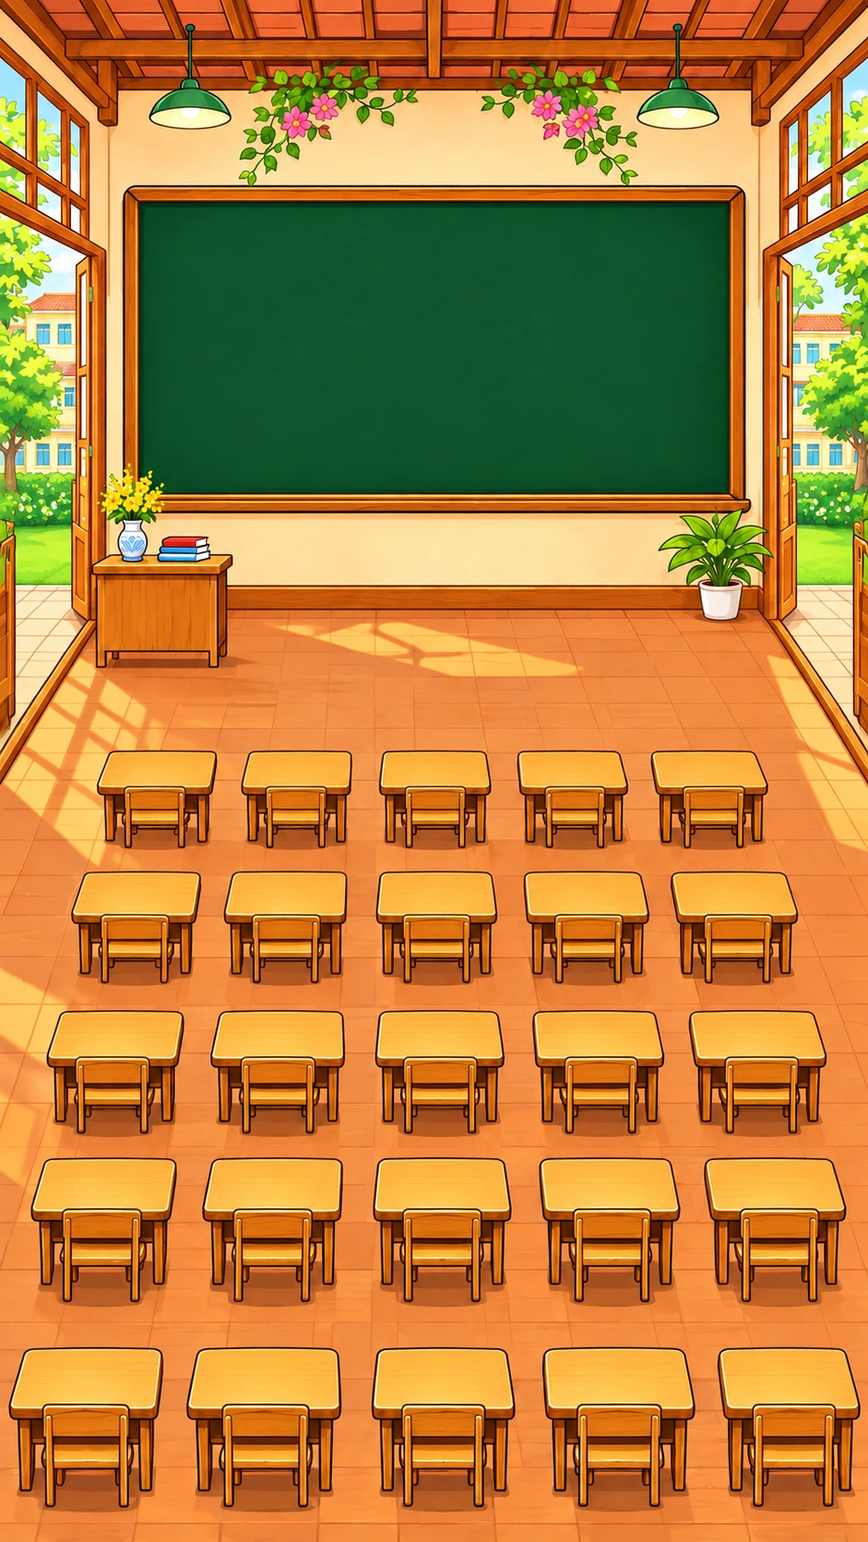
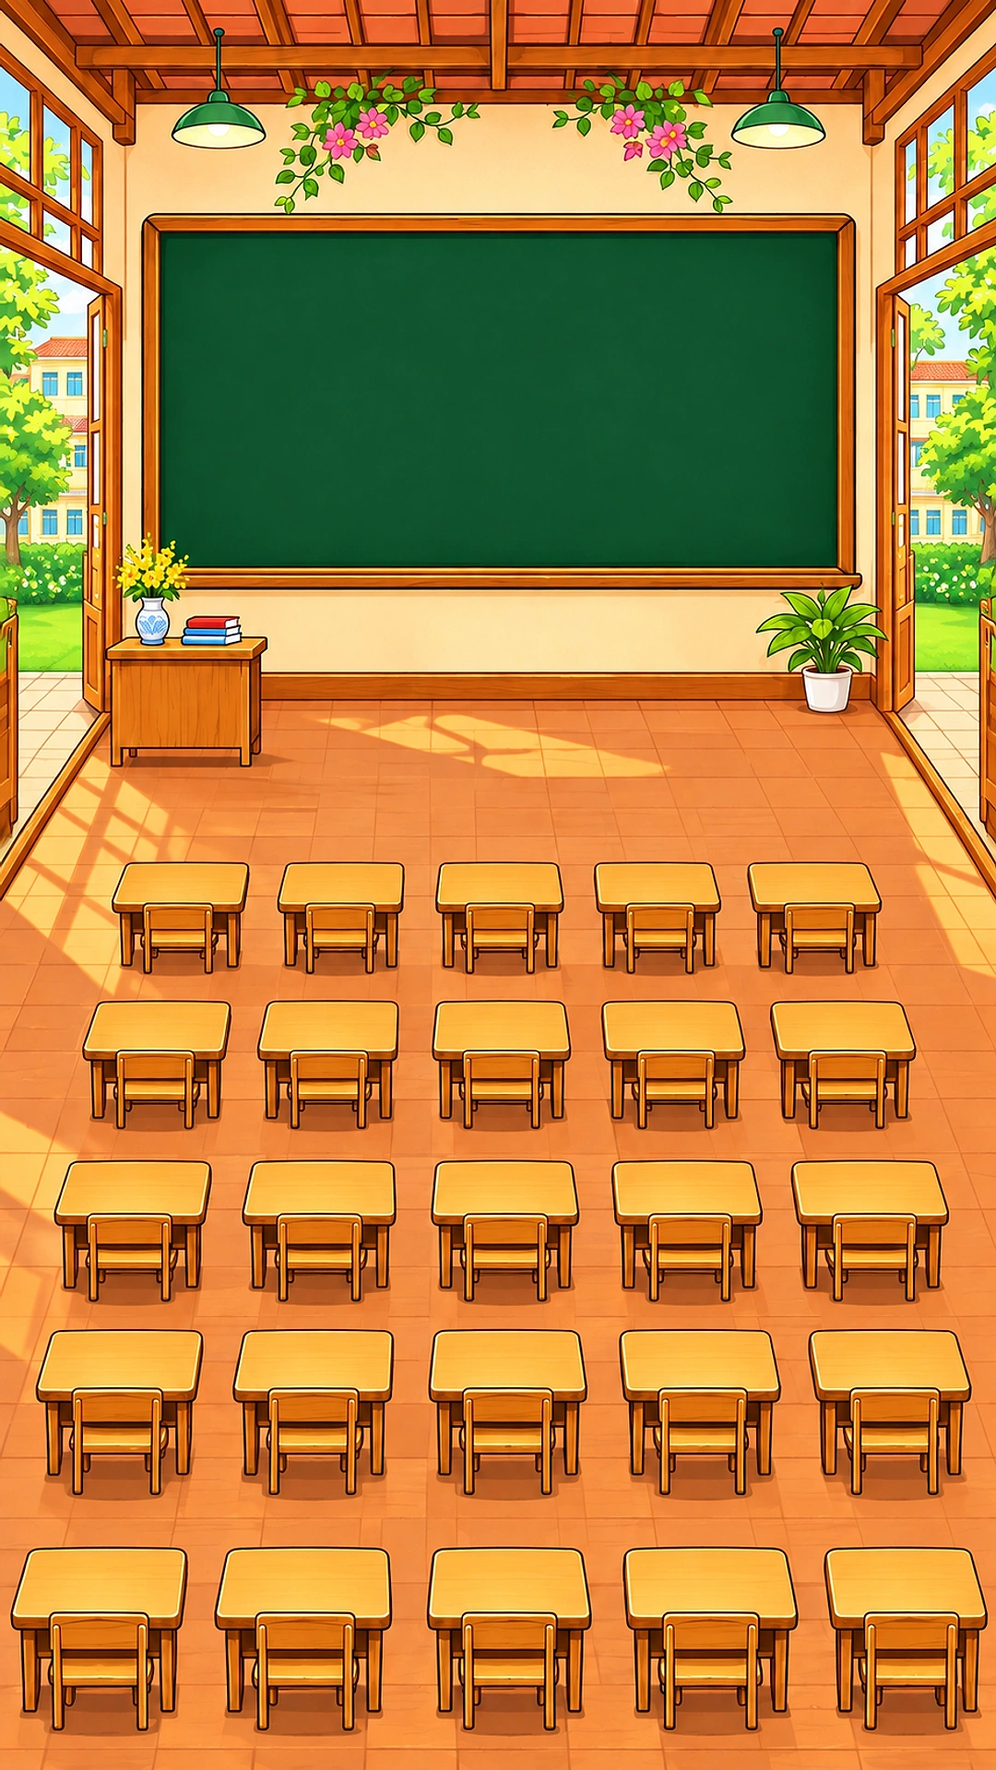
Tặng hoa chỉ đi lên bục (bỏ zoom, khung cận cảnh); cô bớt nói: 1 câu nói thêm mỗi câu hỏi, cà khịa 35%, rủ tương tác 3 phút; chữ nét hơn (stage co giãn bằng zoom, nền phóng sẵn 1080)

diff --git a/src/game/GameStage.tsx b/src/game/GameStage.tsx
@@ -6,7 +6,7 @@ import { Hair } from './Hair';
 import './stage.css';
 
 /**
- * Màn hình lớp học 1080x1920. Nền là ảnh public/assets/bg/lop.webp (941x1672 phóng lên 1080 ngang),
+ * Màn hình lớp học 1080x1920. Nền là ảnh public/assets/bg/lop.webp (gốc 941x1672, tach-nen.py phóng sẵn lên 1080 ngang),
  * nên mọi toạ độ dưới đây = toạ độ trên ảnh gốc x K.
  */
 const K = 1080 / 941;
@@ -101,18 +101,10 @@ export function GameStage({ game }: { game: GameState }) {
       </div>
     );
   }
-  // cận cảnh cô nhận hoa: lúc bạn nhỏ tới bục. Ngoài giờ trả lời thì zoom cả lớp vào cô;
-  // đang hỏi thì hiện khung cận cảnh phía dưới để bảng đen vẫn đọc được
-  const closeUp = !!v.walk && now - v.walk.at >= GAME.closeUpFromMs && now - v.walk.at <= GAME.closeUpToMs;
-  const asking = v.phase === 'question' || v.phase === 'bonus';
   return (
     <div className={`relative h-full w-full overflow-hidden ${v.clapping ? 'class-clap' : ''}`}>
-      <motion.div
-        className="absolute inset-0"
-        style={{ transformOrigin: '330px 700px' }}
-        animate={{ scale: closeUp && !asking ? 1.9 : 1 }}
-        transition={{ duration: 0.7, ease: 'easeInOut' }}
-      >
+      {/* tặng hoa: chỉ có bạn nhỏ đi lên bục đưa cô (FlowerWalk), không zoom, không khung cận cảnh (chủ kênh bỏ 2026-11-04) */}
+      <div className="absolute inset-0">
         {/* sàn lớp trong ảnh nền hơi chói: phủ 1 lớp tối nhẹ từ chân bảng trở xuống (chủ kênh chỉnh 2026-11-04) */}
         <div className="pointer-events-none absolute inset-x-0 bottom-0 top-[600px] bg-gradient-to-b from-[#3b1d07]/0 via-[#3b1d07]/20 to-[#3b1d07]/28 mix-blend-multiply" />
         <Header v={v} name={game.channelName} />
@@ -131,8 +123,7 @@ export function GameStage({ game }: { game: GameState }) {
         {v.phase !== 'show' && <SeatHint now={now} />}
         <Students v={v} now={now} />
         <FlowerWalk v={v} />
-      </motion.div>
-      {closeUp && asking && <CloseUpInset v={v} />}
+      </div>
       <GiftBanner gift={game.lastGift} now={now} />
       <BirthdayBanner v={v} />
       <FundParty v={v} />
@@ -159,7 +150,7 @@ function GiftPile({ v }: { v: StageView }) {
             key={i}
             initial={i === pile.length - 1 ? { scale: 0, x: 220, y: -40 } : false}
             animate={{ scale: 1, x: 0, y: 0 }}
-            transition={{ delay: i === pile.length - 1 ? GAME.closeUpToMs / 1000 - 1.2 : 0, type: 'spring', stiffness: 140, damping: 14 }}
+            transition={{ delay: i === pile.length - 1 ? (GAME.walkMs * 0.65) / 1000 : 0, type: 'spring', stiffness: 140, damping: 14 }}
             className="absolute leading-none drop-shadow-[0_3px_2px_rgba(0,0,0,0.35)]"
             style={{ fontSize: size, left: 6 + col * 26 + (row % 2) * 12 - size / 4, top: 210 - size - row * 24 }}
           >
@@ -185,31 +176,6 @@ function ClassFund({ v }: { v: StageView }) {
       </div>
       <div className="mt-1 text-[16px] font-semibold leading-tight">Mục tiêu hôm nay {f.goal} 🌹</div>
     </div>
-  );
-}
-
-// Khung cận cảnh (đang hỏi bài thì không zoom cả lớp, hiện khung này dưới bảng đen)
-function CloseUpInset({ v }: { v: StageView }) {
-  const w = v.walk!;
-  const tier = GAME.giftTiers[w.tier];
-  const g = w.girl ? 'nu' : 'nam';
-  return (
-    <motion.div
-      initial={{ opacity: 0, scale: 0.6 }}
-      animate={{ opacity: 1, scale: 1 }}
-      className="absolute left-1/2 top-[930px] z-[60] h-[430px] w-[820px] -translate-x-1/2 overflow-hidden rounded-[30px] border-[6px] border-white bg-gradient-to-b from-[#fde7c3] to-[#e8b77a] shadow-2xl"
-    >
-      <div className="absolute left-4 top-3 rounded-full bg-red-600 px-3 text-[22px] font-bold text-white">🎥 Cận cảnh</div>
-      <img src={v.show ? `/assets/nv/co-ngan/${v.show.kind}/${v.show.kind === "everest" ? "10-cuoi-vui" : "06-rung-chuong-cuoi-tuoi"}.webp` : v.outfit && v.outfit !== "trang" ? `/assets/nv/co-ngan/${v.outfit}/06-cuoi-che-mieng.webp` : "/assets/nv/co-ngan/06-cuoi.webp"} className="absolute bottom-[-40px] left-[120px] h-[470px]" />
-      <img src={`/assets/nv/${g}/${POSE[g].vui}.webp`} className="absolute bottom-[-20px] left-[430px] h-[330px]" />
-      <motion.div animate={{ rotate: [-8, 8, -8] }} transition={{ duration: 1, repeat: Infinity }} className="absolute left-[380px] top-[150px]" style={{ fontSize: 60 * tier.size }}>
-        {tier.icon}
-      </motion.div>
-      <div className="absolute right-6 top-14 w-[300px] text-center">
-        <div className="truncate text-[40px] font-extrabold text-[#9d174d]">{w.nickname}</div>
-        <div className="text-[30px] font-bold text-[#7a2e0e]">tặng cô {tier.label}</div>
-      </div>
-    </motion.div>
   );
 }
 
@@ -1004,7 +970,7 @@ function DayTop({ v }: { v: StageView }) {
 // ---------- Cô giáo (cô Ngân, bản riêng: 16 tư thế, ảnh gốc trong nhan-vat/co-giao-ngan, tách nền ra public/assets/nv/co-ngan) ----------
 function teacherPose(v: StageView, now: number): string {
   // có bạn cầm hoa đi lên: ngạc nhiên, tới bục đưa hoa thì cười che miệng
-  if (v.walk) return now - v.walk.at < GAME.closeUpFromMs ? '13-ngac-nhien' : '06-cuoi';
+  if (v.walk) return now - v.walk.at < GAME.walkMs * 0.35 ? '13-ngac-nhien' : '06-cuoi';
   if (now - v.lastFlowerAt < 3000) return '06-cuoi'; // được tặng hoa
   if (v.birthday) return '09-mung';
   if (v.clapping) return '10-vo-tay';

diff --git a/src/game/config.ts b/src/game/config.ts
@@ -31,7 +31,7 @@ export const GAME = {
   timeGreetEvery: 4, // ngoài lúc đổi buổi, cứ chừng này tiết cô chào theo giờ một lần
   // Lấp khoảng im lặng lúc chờ trả lời câu chữ: cứ chừng này cô làm 1 việc, xoay vòng
   // rủ "ai yêu cô gõ số 1" -> kể chuyện vui / mẹo tiếng Anh -> hỏi bình chọn (miền Bắc gõ B...) -> kể chuyện
-  engageEveryMs: 100_000,
+  engageEveryMs: 180_000, // giảm từ 100 giây (chủ kênh thấy cô nói quá nhiều, 2026-11-04)
   engageOrder: ['love', 'story', 'poll', 'sleep'] as const, // 'sleep': gọi 1 bạn ngủ gật dậy (không ai ngủ thì kể chuyện)
   loveWindowMs: 15_000, // đếm ai gõ trong chừng này rồi cảm ơn / đọc kết quả
 
@@ -60,7 +60,8 @@ export const GAME = {
   streakBonus: 5, // thưởng thêm
   requireDiacritics: true, // phải gõ đủ dấu mới tính đúng ("phan" không ăn "phấn"); dấu kiểu cũ/mới đều được
   keepHiddenLetters: 2, // gợi ý không bao giờ mở quá (số chữ - 2)
-  roastChance: 0.6, // tỉ lệ cô cà khịa 1 bạn trả lời sai lúc hiện đáp án
+  roastChance: 0.35, // tỉ lệ cô cà khịa 1 bạn trả lời sai lúc hiện đáp án (giảm từ 0.6, 2026-11-04)
+  monitorEveryQ: 4, // lớp trưởng đổi người: cách ít nhất chừng này câu cô mới báo lại
 
   // ---------- Giờ ra chơi (sau mỗi tiết) ----------
   recessPlaySec: { rps: 20, callup: 15, pick: 20, roll: 12, heart: 30 },
@@ -152,9 +153,6 @@ export const GAME = {
   ],
   // mục tiêu quỹ hoa trong ngày (số bông), đạt mốc nào thì cô cảm ơn cả lớp + pháo hoa, rồi tới mốc kế
   flowerGoals: [50, 100, 200, 500, 1000, 2000, 5000, 10000],
-  // cận cảnh cô nhận hoa: từ lúc bạn nhỏ đi tới bục tới lúc quay về (ms tính từ lúc tặng)
-  closeUpFromMs: 1600,
-  closeUpToMs: 5000,
   giftPileMax: 18, // bàn quà sau lưng cô bày tối đa chừng này món (mới nhất)
 
   // ---------- Quà / tim ----------
@@ -174,6 +172,9 @@ export const GAME = {
   // Nhịp giọng: câu chính (đề, đáp án, tổng kết) đọc theo chương trình, đồng hồ dừng trong lúc cô đọc.
   // Câu nói thêm (chào, cảm ơn, cà khịa) chỉ nói lúc đang chờ học sinh trả lời và còn hơn 5 giây.
   chatterMinLeftMs: 5000,
+  // trần câu nói thêm thường (chào, khen người đúng đầu, nhận ra bạn đi học lại, rủ tương tác...) mỗi câu hỏi / mỗi phần.
+  // Cảm ơn quà, sinh nhật, lên lớp không tính trần. Chủ kênh thấy cô nói quá nhiều (2026-11-04).
+  chatterPerPhase: 1,
   chatterMaxWaitMs: 35_000, // câu chào chờ được qua 1 vòng câu hỏi, quá thì bỏ
   giftLineMaxWaitMs: 45_000, // cảm ơn quà chờ lâu hơn
   maxHoldMs: 25_000, // mỗi phần dừng đồng hồ tối đa chừng này (phòng giọng bị kẹt)

diff --git a/src/game/quiz.ts b/src/game/quiz.ts
@@ -501,14 +501,18 @@ export class Classroom {
     return g.name;
   }
 
+  private monitorSaidQ = -99;
   /** Lớp trưởng đổi người thì cô thông báo */
   private checkMonitor(): Say[] {
     const top = this.seats(1)[0];
     if (!top || top.score <= 0 || top.username === this.monitor) return [];
     const first = this.monitor === '';
     this.monitor = top.username;
-    // người đầu tiên có điểm trong tiết thì khỏi báo (cô vừa khen rồi), từ lần đổi người mới báo
-    return first ? [] : [this.t(this.line('newMonitor', top.spoken))];
+    // người đầu tiên có điểm trong tiết thì khỏi báo (cô vừa khen rồi), từ lần đổi người mới báo;
+    // đổi liên tục thì cách GAME.monitorEveryQ câu mới báo 1 lần (đỡ nói nhiều)
+    if (first || this.qNo - this.monitorSaidQ < GAME.monitorEveryQ) return [];
+    this.monitorSaidQ = this.qNo;
+    return [this.t(this.line('newMonitor', top.spoken))];
   }
 
 
@@ -712,6 +716,14 @@ export class Classroom {
     this.phaseEndsAt = now + sec * 1000;
     this.heldMs = 0;
     this.warned = false;
+    if (p !== 'bonus') this.chatterUsed = 0; // thêm giờ vẫn tính chung lượt với câu đang hỏi
+  }
+
+  /** số câu nói thêm (không ưu tiên) cô đã nói trong phần này; GAME.chatterPerPhase là trần */
+  chatterUsed = 0;
+  /** còn được nói thêm câu này không: câu ưu tiên (cảm ơn quà, sinh nhật, lên lớp) luôn được, câu thường theo trần */
+  chatterAllowed(priority: boolean) {
+    return priority || this.chatterUsed < GAME.chatterPerPhase;
   }
 
   private warned = false; // đã nhắc "chuẩn bị hết giờ" ở phần này chưa
@@ -950,7 +962,7 @@ export class Classroom {
       this.clapUntil = now + GAME.clapSec * 1000;
       out.push({ ...this.t(this.line('fundGoal', String(reached))), warn: true });
     }
-    // bạn nhỏ đi lên bục đưa hoa cho cô, cận cảnh cô nhận và cảm ơn ngay (đang có bạn đi thì thôi, tránh combo chen nhau)
+    // bạn nhỏ đi lên bục đưa hoa cho cô, cô cảm ơn ngay (đang có bạn đi thì thôi, tránh combo chen nhau)
     const tier = tierOf(coins);
     this.giftPile = [...this.giftPile, tier].slice(-GAME.giftPileMax);
     if (!this.walk || now - this.walk.at > GAME.walkMs) {

diff --git a/src/game/useGame.ts b/src/game/useGame.ts
@@ -90,9 +90,14 @@ export function useGame() {
   function flushChatter(room: Classroom, now: number) {
     chatter.current = chatter.current.filter((c) => c.until > now);
     if (voice.busy || mainSpeaking.current > 0 || !room.chatterWindow(now)) return;
-    const i = Math.max(0, chatter.current.findIndex((c) => c.priority)); // cảm ơn quà trước
+    // cảm ơn quà trước; câu thường mỗi phần chỉ nói GAME.chatterPerPhase câu, còn lại chờ phần sau hoặc hết hạn thì bỏ
+    const p = chatter.current.findIndex((c) => c.priority);
+    const i = p >= 0 ? p : room.chatterAllowed(false) ? 0 : -1;
+    if (i < 0) return;
     const next = chatter.current.splice(i, 1)[0];
-    if (next) voice.say(next.text);
+    if (!next) return;
+    if (!next.priority) room.chatterUsed++;
+    voice.say(next.text);
   }
 
   // Tên an toàn để hiện/đọc: tên có từ cấm thì dùng username
@@ -131,7 +136,7 @@ export function useGame() {
       const coins = e.diamondCount * e.repeatCount;
       setLastGift({ ...e, nickname: p.nickname, at: Date.now() });
       const hint = room.gift(p, coins, Date.now(), e.repeatCount);
-      say(hint); // cận cảnh cô nhận hoa: cảm ơn ngay, quà đạt mốc quỹ hoa: cô cảm ơn cả lớp
+      say(hint); // bạn nhỏ lên bục đưa hoa: cô cảm ơn ngay, quà đạt mốc quỹ hoa: cô cảm ơn cả lớp
       // combo / tặng liên tục chỉ cảm ơn 1 lần mỗi 30 giây; quà to luôn cảm ơn
       if (!hint.length && talk.gifts.shouldThank(e.username, coins, chatter.current.filter((c) => c.priority).length)) say([room.thank(p, e.giftName, coins)]);
     },

diff --git a/src/game/loi-thoai.ts b/src/game/loi-thoai.ts
@@ -189,7 +189,7 @@ export const LINES = {
     'Giờ này còn thức là chưa xong việc, hoặc đang nhắn tin với ai đó. Cô hỏi thôi, không nói ai.',
   ] as L0,
 
-  // ---------- Cận cảnh cô nhận hoa: cảm ơn theo bậc (n tên, g = "một bông hoa" / "một bó hoa nhỏ"...) ----------
+  // ---------- Cô nhận hoa (bạn nhỏ lên bục đưa): cảm ơn theo bậc (n tên, g = "một bông hoa" / "một bó hoa nhỏ"...) ----------
   thankTier0: [
     (n, g) => `Ôi cô cảm ơn ${n} nha, ${g} xinh quá. Cô có thêm động lực dạy tới cuối tháng rồi nè.`,
     (n, g) => `${n} tặng cô ${g}! Hôm nay cô không than lương nữa.`,
@@ -659,7 +659,7 @@ export const LINES = {
   ] as L3,
   praiseThird: [
     (n, s, g) => `Hạng ba là ${n}, ${s} điểm, nhận ${g}.`,
-    (n, s, g) => `Thứ ba là ${n}, ${s} điểm. ${g} cho bạn nha.`,
+    (n, s, g) => `Thứ ba là ${n}, ${s} điểm. Cô tặng ${g} cho bạn nha.`,
   ] as L3,
   // mời tương tác, sau câu này cô chờ vài giây rồi mới ra câu tiếp
   praiseOutro: [

diff --git a/src/live/StageFrame.tsx b/src/live/StageFrame.tsx
@@ -18,7 +18,8 @@ export function StageFrame({ children, maxHeight }: { children: ReactNode; maxHe
     <div style={{ width: STAGE_W * scale, height: STAGE_H * scale }} className="relative overflow-hidden">
       <div
         className="stage-bg absolute left-0 top-0"
-        style={{ width: STAGE_W, height: STAGE_H, transform: `scale(${scale})`, transformOrigin: 'top left' }}
+        // zoom thay cho transform: scale: Chrome vẽ lại chữ đúng cỡ thật nên chữ nét (scale thì chụp ảnh lớp rồi kéo giãn, chữ mờ)
+        style={{ width: STAGE_W, height: STAGE_H, zoom: scale }}
       >
         {children}
       </div>

diff --git a/tools/tach-nen.py b/tools/tach-nen.py
@@ -78,7 +78,11 @@ def main():
             make_backs(OUT / 'nv' / key)
         print(key, len(files), 'tư thế, khung', box)
     (OUT / 'bg').mkdir(parents=True, exist_ok=True)
-    Image.open(SRC / 'nen-lop-hoc-rong-khong-nguoi-2d.png').convert('RGB').save(OUT / 'bg' / 'lop.webp', quality=92)
+    # nền phóng sẵn lên đúng 1080 ngang (Lanczos + làm nét nhẹ) để trình duyệt khỏi kéo giãn, chữ và nét bảng sắc hơn
+    from PIL import ImageFilter
+    bg = Image.open(SRC / 'nen-lop-hoc-rong-khong-nguoi-2d.png').convert('RGB')
+    bg = bg.resize((1080, round(bg.height * 1080 / bg.width)), Image.LANCZOS).filter(ImageFilter.UnsharpMask(radius=1, percent=60, threshold=2))
+    bg.save(OUT / 'bg' / 'lop.webp', quality=95)
 
 
 if __name__ == '__main__':

diff --git a/CLAUDE.md b/CLAUDE.md
@@ -40,7 +40,7 @@ Lớp học 2D cho TikTok LIVE. Cô giáo áo dài đố chữ: chữ cái xáo 
 
 - 20 giây mỗi câu (đổi từ 25, 2026-11-04), luôn chạy đủ giờ (`endAfterFirstSec: 0`).
 - Tên lớp đổi được ở ô "Tên lớp" trang điều khiển (hiện trên bảng hiệu).
-- Cô cà khịa nhiều: 60% số câu cô gọi tên trêu 1 bạn trả lời sai; đúng trong 4 giây đầu thì cô khen "thần đồng" kiểu khen bé (không nghi quay cóp nữa, 2026-11-04); lớp im 75 giây thì cô nhắc.
+- Cô cà khịa: 35% số câu cô gọi tên trêu 1 bạn trả lời sai (giảm từ 60%, 2026-11-04); đúng trong 4 giây đầu thì cô khen "thần đồng" kiểu khen bé (không nghi quay cóp nữa, 2026-11-04); lớp im 75 giây thì cô nhắc.
 - Dấu kiểu cũ/mới (hóa/hoá, thủy/thuỷ) đều tính đúng; không dấu thì không tính.
 - Điểm giảm dần theo thứ tự đúng để chép đáp án trên khung chat chỉ được 1 điểm.
 - Quà = tặng hoa cô giáo; quà to mở chữ.
@@ -94,7 +94,7 @@ Lớp học 2D cho TikTok LIVE. Cô giáo áo dài đố chữ: chữ cái xáo 
 - TỪ 2026-11-04 KHÔNG ĐẨY GÌ LÊN GITHUB NỮA: mọi thứ làm mới là bản riêng, chỉ ở máy này (nhánh rieng/co-ngan). .git/hooks/pre-push chặn mọi lần push. master local có commit học bạ / top tương tác chưa push và sẽ không push.
 - Tính cách cô Ngân (chủ kênh duyệt 2026-11-04, hồ sơ đầy đủ ở đầu loi-thoai.ts): 26 tuổi, cô giáo Gen Z, đanh đá mà dễ thương, cà khịa nhưng thương học trò. Miếng hài lặp lại: than lương cuối tháng, nghiện trà sữa full topping, sợ thứ hai và họp phụ huynh, thầm crush thầy thể dục, ghét ai chép đáp án trên khung chat. Khán giả chính là Gen Z + người đi làm (lương, deadline, sếp, họp, săn sale, crush). Quà thưởng (REWARDS) là trà sữa, cà phê muối, voucher freeship, mì tôm cứu đói...
 - Câu hỏi cho Gen Z + người đi làm (2026-11-04): thêm 32-cong-so (công sở, tiền bạc), 33-gen-z-trend, 34-an-uong-tinh-yeu; gợi ý phải có "twist" (cà khịa, tình huống đời thật), không tả khô. 75% câu chữ thường bốc từ GAME.hotTopics (3 bộ mới + 16-gen-z), chủ đề cả lớp bình chọn vẫn ưu tiên trước. Chỉ ưu tiên bộ hot trong nhóm câu lâu chưa hỏi nhất: bộ hot hết câu mới thì lấy câu mới bộ khác, không hỏi lại câu cũ (sửa 2026-11-04, trước đó test chống lặp lúc đạt lúc trượt). Câu cũ trùng đáp án với bộ mới đã xoá ở bộ cũ. Mọi bộ câu chữ thường 01-22 đã viết lại gợi ý có twist (xong 2026-11-04). Câu về tỉnh viết theo địa giới sau sáp nhập 1/7/2025 (vd Hội An thuộc Đà Nẵng); tỉnh cũ đã nhập thì gọi là "vùng đất". Câu ca dao (14) giữ nguyên câu gốc, chỉ thêm một câu bình luận phía sau.
-- Quà (bản riêng 2026-11-04): mỗi xu = 1 bông hoa vào "💝 Quỹ lớp" hôm nay (server lưu; bảng ở cột phải giữa Thi đua tổ và Top tương tác; mốc 50/100/200/500/1000...; đạt mốc thì biểu ngữ + pháo hoa + cô cảm ơn tấm lòng cả lớp). Chia bậc theo xu: 1 bông 🌹, từ 10 bó nhỏ 💐, từ 99 bó lớn, từ 500 xe hoa 🌸. Bạn nhỏ cầm hoa đi lên bục, cận cảnh cô nhận (ngoài giờ trả lời thì zoom cả lớp vào cô, đang hỏi thì khung cận cảnh dưới bảng đen), cô cảm ơn theo bậc ngay lúc đó. Quà xếp thẳng ra chỗ cửa lớp bên trái sau lưng cô (tối đa 18 món), KHÔNG bàn, KHÔNG chữ.
+- Quà (bản riêng 2026-11-04): mỗi xu = 1 bông hoa vào "💝 Quỹ lớp" hôm nay (server lưu; bảng ở cột phải giữa Thi đua tổ và Top tương tác; mốc 50/100/200/500/1000...; đạt mốc thì biểu ngữ + pháo hoa + cô cảm ơn tấm lòng cả lớp). Chia bậc theo xu: 1 bông 🌹, từ 10 bó nhỏ 💐, từ 99 bó lớn, từ 500 xe hoa 🌸. Bạn nhỏ cầm hoa đi lên bục đưa cô rồi về chỗ, cô cảm ơn theo bậc ngay lúc đó. KHÔNG zoom, KHÔNG khung "Cận cảnh" (chủ kênh bỏ 2026-11-04). Quà xếp thẳng ra chỗ cửa lớp bên trái sau lưng cô (tối đa 18 món), KHÔNG bàn, KHÔNG chữ.
 - Góc trái: giữ nguyên ảnh nền (chủ kênh bỏ ý thay cửa sổ + bàn). Sĩ số ở dòng tiêu đề. Bảng Học sinh xuất sắc chỉ top 4 (không che đầu cô), chữ to hơn; Top tương tác cũng to hơn.
 - Đuổi hình bắt chữ (bản riêng 2026-11-04): 5 câu mỗi tiết ở câu 2, 6, 11, 14, 18 (còn 5 câu chữ thường). File 31-duoi-hinh-dh.txt (đuôi -dh), cột gợi ý là chuỗi emoji hiện to trên bảng, không xáo chữ, cô không đọc emoji ("Đuổi hình bắt chữ! Đây là một thành ngữ gồm X chữ cái... Nhìn hình đoán chữ nha"). 92 câu: từ ghép chơi chữ (🍞➕🚗 BÁNH XE), địa danh, thành ngữ; đáp án tối đa 16 chữ. Khoảng 18 tiết là lặp, cần viết thêm.
 - Trang phục cô Ngân (2026-11-04): 3 bộ trắng / sơ mi (`so-mi`) / áo dài xanh ngọc (`ao-dai-xanh-ngoc`), hết 20 câu (tổng kết tiết) đổi ngẫu nhiên sang bộ khác (`GAME.outfits`). Ảnh gốc nhan-vat/co-giao-ngan/<bộ>/ (ảnh đã có nền trong suốt), ra public/assets/nv/co-ngan/<bộ>/. Sơ mi, xanh ngọc tên tư thế khác bộ trắng: đổi qua `OUTFIT_POSE` trong GameStage.tsx.
@@ -110,3 +110,5 @@ Lớp học 2D cho TikTok LIVE. Cô giáo áo dài đố chữ: chữ cái xáo 
 - Bảng Top 5 nhanh nhất chữ to hơn (tên 29px, thời gian 24px không xuống dòng) (2026-11-04).
 - Toán nhẩm (2026-11-04, bản riêng): nhân chia nhiều hơn (2/3 số câu), cộng trừ luôn là số 3 chữ số với số 2 chữ số, không còn kiểu 6 + 4.
 - Bảng "⚡ Top 5 nhanh nhất" lúc hiện đáp án (2026-11-04, thay khung Nhanh nhất): tên, thời gian trả lời tới mili giây ("2,345 giây", tính từ lúc cô hô bắt đầu, giờ TikTok đổi sang giờ máy bằng độ lệch đo từ bình luận nên có thể dư vài trăm ms trễ mạng), điểm được cộng; dòng cuối "N bạn khác đúng chậm hơn: mỗi bạn +1".
+- Cô bớt nói (2026-11-04, chủ kênh thấy cô tương tác quá mức): mỗi câu hỏi / mỗi phần cô chỉ nói thêm 1 câu thường (chào, khen bạn đúng đầu, nhận ra bạn đi học lại, rủ tương tác...: `GAME.chatterPerPhase`), câu khác hết hạn thì bỏ; cảm ơn quà, sinh nhật, lên lớp không tính trần. Rủ tương tác 3 phút 1 lần (`engageEveryMs`). Lớp trưởng đổi người: cách ít nhất 4 câu mới báo lại (`monitorEveryQ`). Mô phỏng 1 tiết 20 bạn: câu nói thêm 70 -> 52 (còn lại phần lớn là câu "sắp hết giờ").
+- Chữ nét (2026-11-04): khung stage co giãn bằng CSS `zoom` (StageFrame.tsx), không dùng `transform: scale` (chữ bị chụp rồi kéo giãn nên mờ). Ảnh nền phóng sẵn lên 1080 ngang + làm nét nhẹ (tach-nen.py). LIVE Studio nên để nguồn link đúng 1080x1920, cửa sổ nhỏ hơn thì TikTok phóng lên vẫn mờ.
